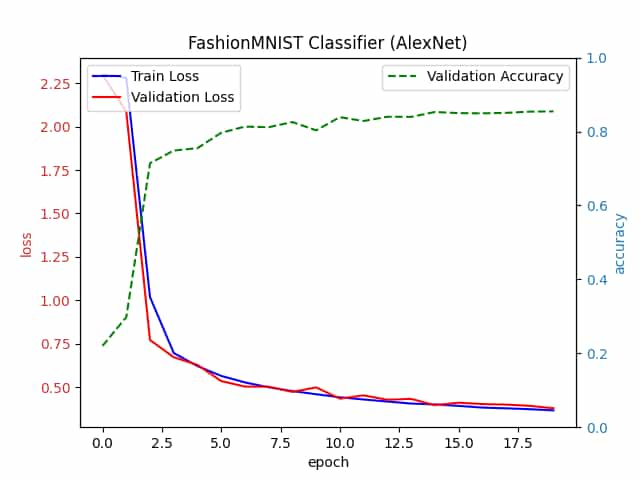
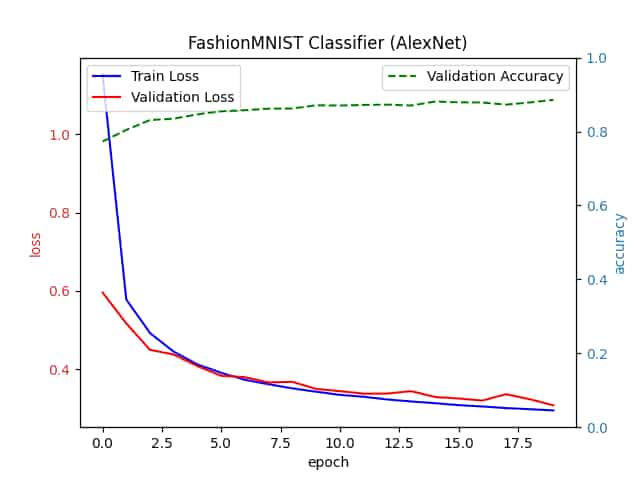
fix(ch8): Correct Xavier initialization weights in AlexNet implementation.

diff --git a/chapter-8_modern-convolutional-neural-networks/alexnet/alex_net.py b/chapter-8_modern-convolutional-neural-networks/alexnet/alex_net.py
@@ -17,7 +17,7 @@ import torchinfo
 
 
 device = (
-    "cuda"
+    "cuda:1"
     if torch.cuda.is_available()
     else "mps"
     if torch.backends.mps.is_available()
@@ -186,9 +186,10 @@ class AlexNet(nn.Module):
 
     @staticmethod
     def _weights_init_fn(module: nn.Module):
-        if isinstance(module, (nn.LazyConv2d, nn.LazyLinear)):
+        if isinstance(module, nn.Conv2d | nn.Linear):
             assert not isinstance(module.weight, nn.UninitializedParameter), \
                 f"Uninitialized weight for module {module}"
+            print(f"Initializing weights of {module}")
             nn.init.xavier_uniform_(module.weight)
 
 
@@ -490,6 +491,6 @@ if __name__ == "__main__":
     main(False)
 
     # Final output:
-    # epoch #19, train_loss = 0.366, validate_loss = 0.378, accuracy = 85.5%
-    # elapsed time: 514.9 seconds
+    # epoch #19, train_loss = 0.295, validate_loss = 0.308, accuracy = 88.6%
+    # elapsed time: 560.0 seconds
     # done!
